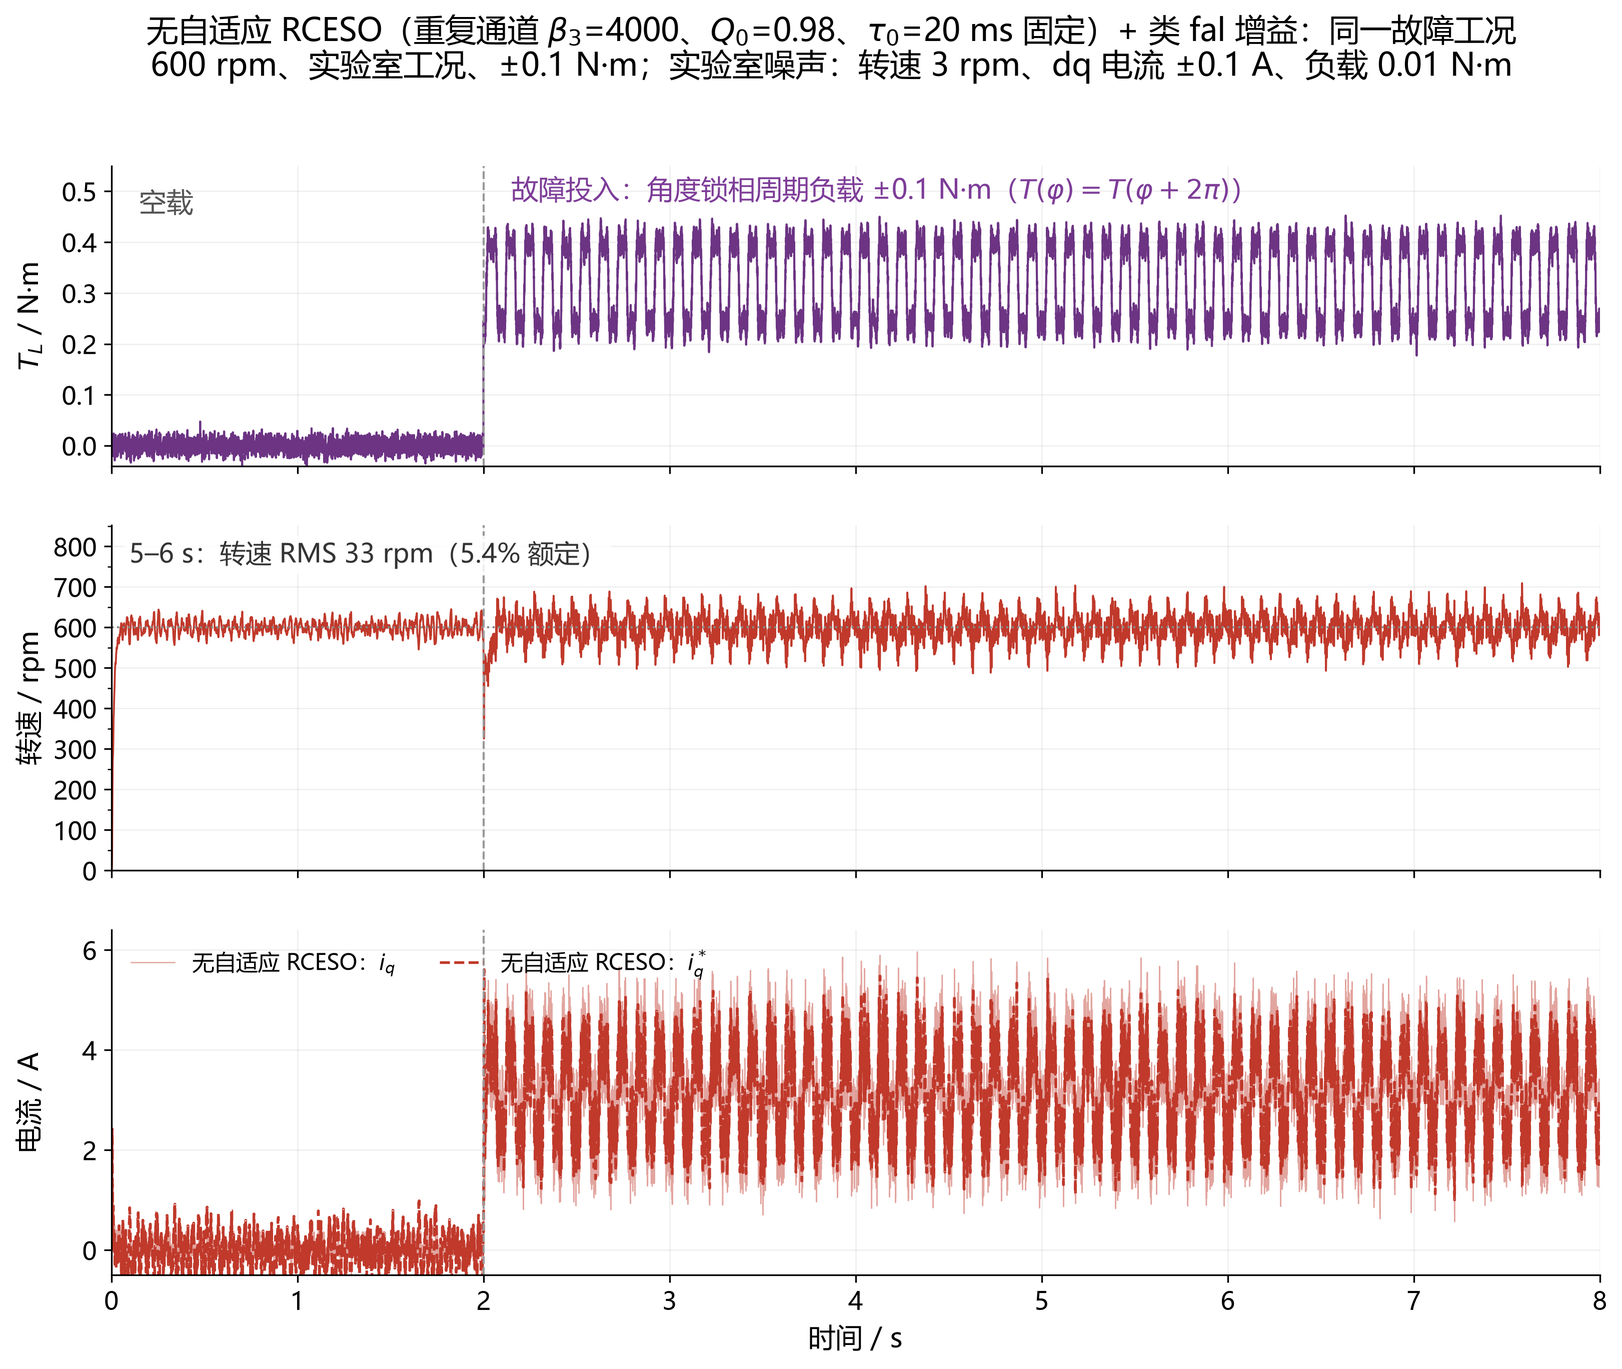
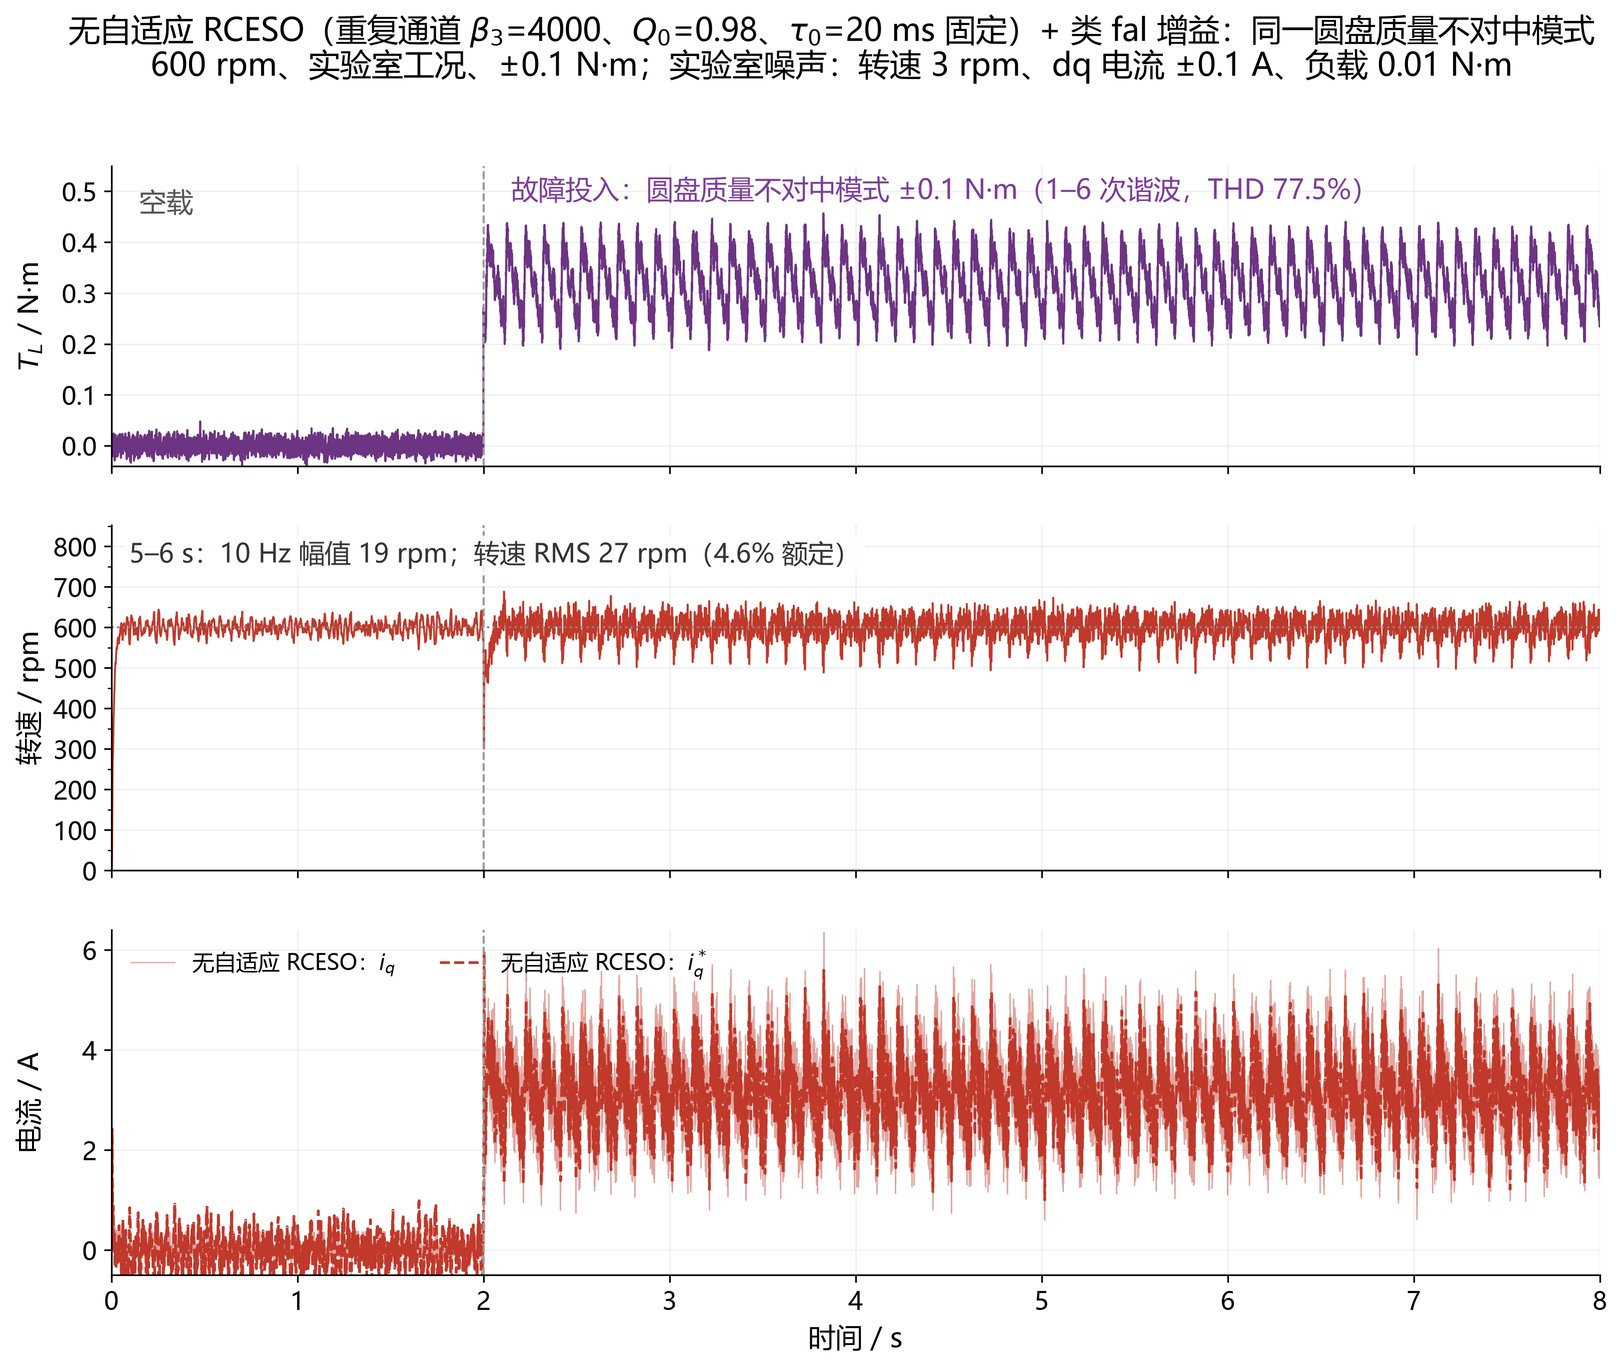
feat(fault): 圆盘质量不对中模式 1-6 次谐波型线与图1重跑

diff --git a/tl_profile.py b/tl_profile.py
@@ -1,0 +1,105 @@
+# -*- coding: utf-8 -*-
+"""角度锁相周期负载 T(phi) —— 圆盘质量不对中模式。
+
+物理口径
+--------
+本模式定名为「圆盘质量不对中模式」。圆盘质量不对中的转矩主特征是
+转频 1 次分量；2--6 次分量用于表示盘面偏摆、间隙、非线性刚度等引起
+的谐波调制。本模式保留 1--6 次，基波为主；按用户给定谐波比，
+THD（2--6 次相对基波）为 77.46%，已超过上一版 30% 约束。
+
+    T(phi) = T(phi + 2*pi),  dphi/dt = omega
+    T_L    = T0 + A * disc_unbalance_profile(phi)
+
+disc_unbalance_profile 返回按峰值归一化的表（max|T| = 1），因此
+tl_ang_amp=A 是峰值转矩（N·m），不是基波幅值；基波幅值约为
+A / 1.664 = 0.601A。实现入口见 pmsm_inv_sim.sim_inv 的 tl_ang /
+tl_ang_amp / tl_ang_start 三个 cfg 字段。
+
+当前系数（a1..a6）与 THD:
+    a = (1.00, 0.55, 0.10, 0.45, 0.25, 0.15)
+    THD = sqrt(sum_{n=2}^6 a_n^2) / a_1 = 77.46%
+    （上一版 30% 约束不再满足；若需 30%，把 2--6 次整体乘 0.3873）
+"""
+import math
+
+import numpy as np
+
+# 模式名（写入元数据/文档时使用这一字符串）
+MODE_NAME = "圆盘质量不对中模式"
+MODE_ID = "disc_mass_misalignment"
+
+# a_1 ... a_6, relative to the fundamental
+HARMONICS = (1.00, 0.55, 0.10, 0.45, 0.25, 0.15)
+THD_LIMIT = 0.30          # 上一版约束，仅保留作对照；当前型线不强制
+NPROF = 4096
+
+
+def thd(harmonics=HARMONICS):
+    """Return THD = sqrt(sum_{n>=2} a_n^2) / a_1."""
+    a = np.asarray(harmonics, dtype=float)
+    if a.ndim != 1 or a.size < 2:
+        raise ValueError("harmonics must be a 1-D sequence with at least 2 entries")
+    if not np.all(np.isfinite(a)) or a[0] <= 0.0:
+        raise ValueError("harmonics must be finite and a_1 must be positive")
+    if np.any(a < 0.0):
+        raise ValueError("harmonic amplitudes must be non-negative")
+    return float(np.sqrt(np.sum(a[1:] ** 2)) / a[0])
+
+
+def _raw_profile(phi, harmonics, phases=None):
+    phi = np.asarray(phi, dtype=float)
+    a = np.asarray(harmonics, dtype=float)
+    if phases is not None:
+        ph = np.asarray(phases, dtype=float)
+        if ph.shape != a.shape:
+            raise ValueError("phases must have the same length as harmonics")
+    else:
+        ph = np.zeros_like(a)
+    f = np.zeros_like(phi)
+    for n, (amp, phase) in enumerate(zip(a, ph), start=1):
+        f += amp * np.sin(n * phi + phase)
+    return f
+
+
+def disc_unbalance_profile(n=NPROF, harmonics=HARMONICS, phases=None,
+                           normalize=True):
+    """Return the 圆盘质量不对中模式 torque table over [0, 2*pi).
+
+    Parameters
+    ----------
+    n : int
+        Number of samples. The table is indexed by mechanical angle modulo 2*pi.
+    harmonics : sequence of float
+        Amplitudes a_1..a_N. Defaults to the 1--6 order disc-unbalance profile.
+    phases : sequence of float, optional
+        Phase of each harmonic in radians. Defaults to zero for all orders.
+    normalize : bool
+        If True (default), divide by max|T| so the table peak is 1.
+    """
+    n = int(n)
+    if n < 8:
+        raise ValueError("n must be >= 8")
+    phi = np.linspace(0.0, 2.0 * math.pi, n, endpoint=False)
+    f = _raw_profile(phi, harmonics, phases)
+    if normalize:
+        peak = float(np.max(np.abs(f)))
+        if not np.isfinite(peak) or peak <= 0.0:
+            raise ValueError("profile has zero or non-finite peak")
+        f = f / peak
+    return f
+
+
+THD = thd(HARMONICS)
+
+
+if __name__ == "__main__":
+    prof = disc_unbalance_profile()
+    spec = np.fft.rfft(prof) / len(prof) * 2.0
+    print("harmonics a1..a6 =", HARMONICS)
+    print("THD = %.2f%% (old limit %.0f%%)" % (100.0 * THD, 100.0 * THD_LIMIT))
+    if THD > THD_LIMIT:
+        print("WARNING: current ratios exceed the old 30% limit")
+    print("peak-normalized table: max|T| = %.6f" % np.max(np.abs(prof)))
+    print("FFT amplitudes 1..8:",
+          " ".join("%.4f" % abs(spec[k]) for k in range(1, 9)))

diff --git a/plot_ppt_fig1.py b/plot_ppt_fig1.py
@@ -48,7 +48,7 @@ ax[0].plot(t[::step], D["TL"][::step], color=C_TL, lw=1.0)
 ax[0].set_ylabel("$T_L$ / N·m")
 ax[0].set_ylim(-0.04, 0.55)
 ax[0].text(0.15, 0.46, "空载", fontsize=13, color="#555")
-ax[0].text(2.15, 0.485, "故障投入：角度锁相周期负载 ±0.1 N·m（$T(\\varphi)=T(\\varphi+2\\pi)$）",
+ax[0].text(2.15, 0.485, "故障投入：圆盘质量不对中模式 ±0.1 N·m（1–6 次谐波，THD 77.5%）",
            fontsize=13, color="#7d3c98")
 ax[0].axvline(2.0, color="#999", ls="--", lw=1.0)
 
@@ -68,11 +68,22 @@ def rms_of(k):
     m = (t >= 5.0) & (t < 6.0)
     return float(np.sqrt(np.mean(e[m] ** 2)))
 
+def amp10(k):
+    e = (D["y_" + k] - 1.0) * N
+    m = (t >= 5.0) & (t < 6.0)
+    tt, yy = t[m], e[m]
+    w = 2.0 * np.pi * 10.0
+    c = 2.0 * np.mean(yy * np.cos(w * tt))
+    s = 2.0 * np.mean(yy * np.sin(w * tt))
+    return float(np.hypot(c, s))
+
 if MODE == "both":
-    txt = ("5–6 s：10 Hz 幅值 82 → 31 rpm；转速 RMS %.0f → %.0f rpm（−%.0f%%）"
-           % (rms_of("eso"), rms_of("rceso"), 100 * (1 - rms_of("rceso") / rms_of("eso"))))
+    txt = ("5–6 s：10 Hz 幅值 %.0f → %.0f rpm；转速 RMS %.0f → %.0f rpm（−%.0f%%）"
+           % (amp10("eso"), amp10("rceso"), rms_of("eso"), rms_of("rceso"),
+              100 * (1 - rms_of("rceso") / rms_of("eso"))))
 else:
-    txt = "5–6 s：转速 RMS %.0f rpm（%.1f%% 额定）" % (rms_of(MODE), 100 * rms_of(MODE) / N)
+    txt = "5–6 s：10 Hz 幅值 %.0f rpm；转速 RMS %.0f rpm（%.1f%% 额定）" % (
+        amp10(MODE), rms_of(MODE), 100 * rms_of(MODE) / N)
 ax[1].text(0.012, 0.955, txt, transform=ax[1].transAxes, fontsize=12.5, color="#333", va="top",
            bbox=dict(facecolor="white", edgecolor="none", alpha=0.85, pad=2.5))
 if MODE == "both":
@@ -95,9 +106,9 @@ else:
 for a in ax:
     a.tick_params(labelsize=12)
 
-title = {"eso": "纯 ESO（无重复通道）+ 类 fal 增益：角度锁相周期负载 ±0.1 N·m",
-         "rceso": "无自适应 RCESO（重复通道 $\\beta_3$=4000、$Q_0$=0.98、$\\tau_0$=20 ms 固定）+ 类 fal 增益：同一故障工况",
-         "both": "同一故障工况：纯 ESO vs 无自适应 RCESO（ESO 增益均为类 fal）"}[MODE]
+title = {"eso": "纯 ESO（无重复通道）+ 类 fal 增益：圆盘质量不对中模式 ±0.1 N·m",
+         "rceso": "无自适应 RCESO（重复通道 $\\beta_3$=4000、$Q_0$=0.98、$\\tau_0$=20 ms 固定）+ 类 fal 增益：同一圆盘质量不对中模式",
+         "both": "同一圆盘质量不对中模式：纯 ESO vs 无自适应 RCESO（ESO 增益均为类 fal）"}[MODE]
 fig.suptitle(title + "\n" + "600 rpm、实验室工况、±0.1 N·m；实验室噪声：转速 3 rpm、dq 电流 ±0.1 A、负载 0.01 N·m",
              fontsize=15, y=0.985)
 fig.align_ylabels(ax)

diff --git a/run_ppt_fig1.py b/run_ppt_fig1.py
@@ -5,7 +5,8 @@
     额定 600 rpm（10 Hz 机械转频），实验室噪声 3 rpm / 0.1 A / 0.01 N·m
     0–2 s   空载
     2–8 s   加载 0.50 额定（0.3185 N·m）
-    2–8 s   叠加**角度锁相**周期分量：T(φ)=A[sinφ+0.4sin3φ+0.2sin5φ]，T(φ)=T(φ+2π)，dφ/dt=ω，A=0.1 N·m
+    2–8 s   叠加**角度锁相**周期分量：保留 1–6 次谐波、基波为主，THD=77.46%，
+            T(φ)=T(φ+2π)，dφ/dt=ω，峰值 A=0.1 N·m（圆盘质量不对中模式；基波≈0.0601）
 
 两档（ESO 增益均为类 fal 默认档 a=0.75, δ=0.10, λ=10）：
     纯 ESO   : beta3 = 0（重复通道关闭）
@@ -14,24 +15,17 @@
 输出：_ppt_fig1.npz（t / TL / y_eso / y_rceso / iq_* / iqr_*）、_ppt_fig1.json
 """
 import json
-import math
 
 import numpy as np
 
 from pmsm_inv_sim import sim_inv
+from tl_profile import HARMONICS, MODE_ID, MODE_NAME, THD, disc_unbalance_profile
 import noise_cfg as NC
 
 DT, TEND, TL0 = 2e-6, 8.0, 2.0
 N_REF = 600.0
 AMP_ANG = 0.1
 T_RATED = 0.637
-NPROF = 4096
-
-
-def profile_unit():
-    ph = np.linspace(0.0, 2 * math.pi, NPROF, endpoint=False)
-    f = np.sin(ph) + 0.4 * np.sin(3 * ph) + 0.2 * np.sin(5 * ph)
-    return f / np.max(np.abs(f))
 
 
 CASES = [("eso", "纯 ESO", dict(beta3=0.0)),
@@ -46,7 +40,7 @@ def main():
                 sig_n=NC.NOISE_LAB["sig_n_rpm"],
                 sig_T_nm=NC.NOISE_LAB["sig_T_nm"],
                 seed_i=20261018,
-                tl_ang=profile_unit(), tl_ang_amp=AMP_ANG, tl_ang_start=TL0,
+                tl_ang=disc_unbalance_profile(), tl_ang_amp=AMP_ANG, tl_ang_start=TL0,
                 eso_law="fal", eso_a=0.75, eso_delta=0.10, eso_lam=10.0)
     out = {}
     meta = {}
@@ -68,7 +62,9 @@ def main():
                          beta3=kw["beta3"])
         print(key, meta[key], flush=True)
     np.savez("_ppt_fig1.npz", **out)
-    json.dump(dict(n_ref=N_REF, amp_ang=AMP_ANG, fci=500.0, cases=meta),
+    json.dump(dict(mode=MODE_NAME, mode_id=MODE_ID,
+                   harmonics=list(HARMONICS), thd=round(THD, 6),
+                   n_ref=N_REF, amp_ang=AMP_ANG, fci=500.0, cases=meta),
               open("_ppt_fig1.json", "w", encoding="utf-8"), ensure_ascii=False, indent=1)
 
 

diff --git a/_nolo_multi.py b/_nolo_multi.py
@@ -1,24 +1,16 @@
 # -*- coding: utf-8 -*-
 """空载段差异的多噪声种子复核：纯 ESO vs 无自适应 RCESO（同一负载噪声实现，成对比较）"""
-import math
-import os
 from multiprocessing import Pool
 
 import numpy as np
 import noise_cfg as NC
 from pmsm_inv_sim import sim_inv
+from tl_profile import disc_unbalance_profile
 
 DT, TEND, TL0 = 2e-6, 8.0, 2.0
 N_REF = 600.0
 AMP = 0.1
-NPROF = 4096
 SEEDS = [20261017, 20261019, 20261023, 20261027]
-
-
-def profile_unit():
-    ph = np.linspace(0.0, 2 * math.pi, NPROF, endpoint=False)
-    f = np.sin(ph) + 0.4 * np.sin(3 * ph) + 0.2 * np.sin(5 * ph)
-    return f / np.max(np.abs(f))
 
 
 def one(job):
@@ -31,7 +23,7 @@ def one(job):
                sig_n=NC.NOISE_LAB["sig_n_rpm"],
                sig_T_nm=NC.NOISE_LAB["sig_T_nm"],
                seed_i=20261018, seed_T=seedT, seed_n=20261018,
-               tl_ang=profile_unit(), tl_ang_amp=AMP, tl_ang_start=TL0,
+               tl_ang=disc_unbalance_profile(), tl_ang_amp=AMP, tl_ang_start=TL0,
                eso_law="fal", eso_a=0.75, eso_delta=0.10, eso_lam=10.0)
     Y = sim_inv(t, TL, cfg)
     tt = Y["t"]; e = (Y["y"] - 1.0) * N_REF

diff --git a/pptfig/equations.tex b/pptfig/equations.tex
@@ -21,8 +21,14 @@ u=\frac{u_0-z_2-v}{b_0},\quad u_0=k_p(r-y),\quad e_1=y-z_1
 D_m^{\downarrow}=\frac{\max\left(0,\,E_v(t-T)-E_v(t)\right)}{E_v(t-T)+\varepsilon_v},\quad
 E_v(t)=\frac{1}{T}\int_{t-T}^{t}v^2(\tau)\,\mathrm{d}\tau
 
-% (6) 角度锁相周期负载（机械角 φ，dφ/dt=ω）
-T(\varphi)=T(\varphi+2\pi),\quad T_L=T_0+A\left[\sin\varphi+0.4\sin 3\varphi+0.2\sin 5\varphi\right],\quad \frac{\mathrm{d}\varphi}{\mathrm{d}t}=\omega
+% (6) 圆盘质量不对中模式：角度锁相周期负载（机械角 φ，dφ/dt=ω）
+% 1–6 次谐波，按给定顺序（3 次 0.10、4 次 0.45，非单调）；THD=77.46%（超过旧 30% 约束）
+T(\varphi)=T(\varphi+2\pi),\quad
+T_L=T_0+A\,\tilde T(\varphi),\quad
+\tilde T(\varphi)=\frac{\sum_{n=1}^{6}a_n\sin n\varphi}{\max\left|\sum_{n=1}^{6}a_n\sin n\varphi\right|},\quad
+(a_1,\ldots,a_6)=(1,\,0.55,\,0.10,\,0.45,\,0.25,\,0.15),\quad
+\mathrm{THD}=\frac{\sqrt{\sum_{n=2}^{6}a_n^2}}{a_1}=77.46\%,\quad
+\frac{\mathrm{d}\varphi}{\mathrm{d}t}=\omega
 
 % (7) 小信号斜率与等效观测带宽
 G'(0)=\delta^{a-1},\qquad \omega_o^{\mathrm{eff}}=\omega_o\,\delta^{(a-1)/2}

diff --git a/_noise_check.py b/_noise_check.py
@@ -2,14 +2,14 @@
 """单个噪声源的贡献分解（串行，避免 Windows spawn 的顶层 Pool 问题）"""
 import numpy as np
 from pmsm_inv_sim import sim_inv
+from tl_profile import disc_unbalance_profile
 import noise_cfg as NC
-import run_ppt_fig1 as R
 
 print("NOISE_LAB =", NC.NOISE_LAB, flush=True)
 t = np.arange(0.0, 8.0, 2e-6)
 TL = (0.50 * (t >= 2.0)).astype(float) * 0.637
 base = dict(n_ref=600.0, T=0.1, fci=500.0, beta3=0.0, tau0=20e-3, seed_i=20261018,
-            tl_ang=R.profile_unit(), tl_ang_amp=0.1, tl_ang_start=2.0,
+            tl_ang=disc_unbalance_profile(), tl_ang_amp=0.1, tl_ang_start=2.0,
             eso_law="fal", eso_a=0.75, eso_delta=0.10, eso_lam=10.0)
 cases = [("全部实验室噪声", dict(i_noise_peak=0.1, sig_n=3.0, sig_T_nm=0.01)),
          ("无噪声", dict(i_noise_peak=0.0, sig_n=0.0, sig_T_nm=0.0)),

diff --git a/pmsm_inv_sim.py b/pmsm_inv_sim.py
@@ -83,6 +83,8 @@ def sim_inv(t, TL, cfg=None):
     #   -1 = 反相复位（v->-v，缓冲同时取反），用于"反相突变"事件——此时清空是错的动作。
     ff_alpha = float(cfg.get("ff_alpha", 0.0))
     # 2026-10-22：角度锁相周期负载 T(φ)=T(φ+2π)，dφ/dt=ω（φ 为机械角）。
+    #   推荐型线：tl_profile.disc_unbalance_profile()，即「圆盘质量不对中模式」
+    #   （1–6 次谐波，基波为主，THD=77.46%；旧 30% 约束不再满足）。
     #   tl_ang       : 单位幅值的周期表（长度 N，均匀铺满 0..2π），None=关闭
     #   tl_ang_amp   : 该分量的幅值（N·m）
     #   tl_ang_start : 该分量开始作用的时刻（s）

diff --git a/pptfig/NOTES.md b/pptfig/NOTES.md
@@ -11,34 +11,38 @@
 | `ppt_01b_rceso_fault.png` | 无自适应 RCESO（β₃=4000、Q₀=0.98、τ₀=20 ms 固定）单曲线 |
 | `ppt_01c_eso_vs_rceso.png` | 两者合并对照 |
 
-- **一句话**：±0.1 N·m 的角度锁相周期负载下，纯 ESO 打出 **74 rpm RMS（12.4% 额定）**；加上重复通道后降到 **33 rpm RMS（5.4%，−56%）**，10 Hz 幅值 82 → 31 rpm，代价是 iq 峰值 5.20 → **6.17 A**（额定 6.5 A）。
+> **模式名**：圆盘质量不对中模式（1–6 次谐波，基波为主，THD=77.5%）。
+> **注意**：按给定顺序 1.00/0.55/0.10/0.45/0.25/0.15（3 次 0.10、4 次 0.45，非单调），
+> THD=77.46%，超过此前 ≤30% 约束；若 30% 仍是硬约束，需把 2–6 次整体乘 0.3873（见 `tl_profile.md`）。
+
+- **一句话**：圆盘质量不对中模式（±0.1 N·m，1–6 次谐波，THD 77.5%）下，纯 ESO 打出 **59 rpm RMS（9.8% 额定）**；加上重复通道后降到 **27 rpm RMS（4.6%，−53%）**，10 Hz 幅值 51 → 19 rpm，代价是 iq 峰值 5.19 → **5.64 A**（额定 6.5 A）。
 - **复现**：`python run_ppt_fig1.py`（两档一次跑完）→ `python plot_ppt_fig1.py eso|rceso|both`
 
 - **为什么空载段（0–2 s）也改善？**（常被问，先备好答案）
   - 现象：空载 1–2 s 转速 RMS **33.3 → 16.6 rpm（−50%）**；4 个负载噪声种子复核为 **−39% ~ −50%**（30.1–33.7 → 15.4–19.1），不是单次巧合。
-  - 机理：重复通道是**梳状滤波器**，对转频 10 Hz 的整数倍（10/30/50 Hz…）各开一个深度陷波，
+  - 机理：重复通道是**梳状滤波器**，对转频 10 Hz 的整数倍（10/20/…/60 Hz…）各开一个深度陷波，
     低通 $\tau_0$=20 ms 把每个陷波展宽到约 ±8 Hz。实验负载噪声是 200 Hz 带限的，能量大量落在 0–60 Hz，
     于是**落在谐波带内的那部分噪声也被一起压掉**——它分不清"周期扰动"和"噪声"。
   - 证据（空载 1–2 s 频带 RMS）：11.5–60 Hz 由 **39.4 → 17.3**；60–200 Hz 基本不变（7.6 → 7.8）；
     >200 Hz 不变（2.3 → 2.4）——是"谐波梳"而不是"低通"。
   - 注意：单个谐波分量的瞬时幅值可能反而变大（泵浦把噪声"记"进记忆再重放，30/50 Hz 实测 1.7→4.3、0.7→2.1），
     但总 RMS 仍是下降的。讲稿里说"重复通道顺带压掉了落在谐波带内的噪声"即可，不要夸成"降噪"。
-- **图怎么读**：0–2 s 空载；2 s 故障投入（0.50 额定台阶 + `T(φ)=A[sinφ+0.4sin3φ+0.2sin5φ]`，`T(φ)=T(φ+2π)`，`dφ/dt=ω`，A=0.1 N·m）；第三行看 `i_q*` 与 `i_q` 的跟随（实测电流含采样噪声）。
+- **图怎么读**：0–2 s 空载；2 s 故障投入（0.50 额定台阶 + 圆盘质量不对中模式：角度锁相 `T(φ)=A·T̃(φ)`；`T̃` 保留 1–6 次谐波、基波为主，THD=77.5%；`T(φ)=T(φ+2π)`，`dφ/dt=ω`，峰值 A=0.1 N·m）；第三行看 `i_q*` 与 `i_q` 的跟随（实测电流含采样噪声）。
 - **参数**：β₃ = 0（重复通道关）、无律 D、无 F-B；ESO 增益类 fal。
 - **复现**：`python run_ppt_fig1.py` → `python plot_ppt_fig1.py`
-- **数据**：`_ppt_fig1.npz`、`_ppt_fig1.json`（steady_rms 74.13、iq_std 0.899、iq_max 5.28、Max|iq*| 4.61）
+- **数据**：`_ppt_fig1.npz`、`_ppt_fig1.json`（ESO steady_rms 58.61、iq_std 0.680、iq_max 5.19、Max|iq*| 4.59；RCESO steady_rms 27.49、iq_max 5.64）
 - **噪声确实加了（逐源开关的量化，2026-10-23）**：
 
 | 配置 | 空载 1–2 s 转速 RMS | 空载 iq 标准差 | 故障段 5–6 s 转速 RMS |
 | --- | --- | --- | --- |
-| 全部实验室噪声 | **33.33 rpm** | 0.147 A | 74.3 rpm |
-| 无噪声 | 2.10 | 0.095 | 73.4 |
-| 仅电流噪声 ±0.1 A | 2.14 | 0.095 | 73.4 |
-| 仅转速噪声 3 rpm | 3.28 | 0.095 | 74.2 |
-| 仅负载噪声 0.01 N·m | **32.34** | 0.144 | 73.9 |
+| 全部实验室噪声 | **33.33 rpm** | 0.147 A | 58.6 rpm |
+| 无噪声 | 2.10 | 0.095 | 57.9 |
+| 仅电流噪声 ±0.1 A | 2.14 | 0.095 | 57.0 |
+| 仅转速噪声 3 rpm | 3.28 | 0.095 | 58.1 |
+| 仅负载噪声 0.01 N·m | **32.34** | 0.144 | 58.5 |
 
   读法：三个噪声都在；**空载段的抖动主要由负载噪声贡献**（J=1.89e-5 太小、本图 β₃=0 无重复通道，
-  负载噪声只能靠 ESO+PI 带宽硬扛）；**故障段 74 rpm 的脉动与噪声无关**（无噪声 73.4，全部噪声 74.3）。
+  负载噪声只能靠 ESO+PI 带宽硬扛）；**故障段 59 rpm 的脉动与噪声无关**（无噪声 57.9，全部噪声 58.6）。
 
 ## 起步集（论文级原图，可直接用于细节页）
 

diff --git a/tl_profile.md b/tl_profile.md
@@ -1,0 +1,52 @@
+# 角度锁相负载型线
+
+## 圆盘质量不对中模式
+
+- 英文标识：disc_mass_misalignment
+- 代码入口：tl_profile.py
+- 仿真入口：pmsm_inv_sim.sim_inv 的 tl_ang / tl_ang_amp / tl_ang_start
+- 用途：模拟圆盘质量不对中引起的转频（1 次）及其 2–6 次谐波转矩脉动。
+
+### 定义
+
+    T(φ) = T(φ + 2π),   dφ/dt = ω
+    T_L  = T0 + A · T̃(φ)
+
+    T̃(φ) = Σ_{n=1}^{6} a_n sin(nφ) / max|Σ_{n=1}^{6} a_n sin(nφ)|
+
+    (a1, a2, a3, a4, a5, a6) = (1.00, 0.55, 0.10, 0.45, 0.25, 0.15)
+
+    THD = sqrt(a2² + a3² + a4² + a5² + a6²) / a1
+        = 77.46%  （超过上一版 30% 约束）
+
+### 说明
+
+- 1 次转频分量为主；按给定顺序，3 次为 0.10、4 次为 0.45，2–6 次并非逐次递减；7 次及以上为 0。
+- 表按峰值归一化（max|T̃| = 1），因此 tl_ang_amp 是峰值转矩（N·m），
+  不是基波幅值；基波幅值约为 tl_ang_amp / 1.664 = 0.601 × tl_ang_amp。
+- 该模式用于圆盘质量不对中工况；与旧的时间型 1/3/5 次不对中簇不是同一口径，
+  数字不可混引。
+- **约束冲突**：按给定比值 1.00/0.55/0.10/0.45/0.25/0.15，THD=77.46%，
+  不再满足此前“≤30%”的要求。若仍要 ≤30%，保持 1 次为 1.00，
+  把 2–6 次整体乘 0.3873，按同一顺序得到 0.2130 / 0.0387 / 0.1743 / 0.0968 / 0.0581。
+
+### 用法
+
+~~~python
+from tl_profile import disc_unbalance_profile, MODE_NAME
+
+cfg = dict(
+    tl_ang=disc_unbalance_profile(),   # 单位峰值表，长度 4096
+    tl_ang_amp=0.1,                    # 峰值转矩，N·m
+    tl_ang_start=2.0,                  # 投入时刻，s
+)
+~~~
+
+### 自检
+
+~~~bash
+python tl_profile.py
+~~~
+
+输出应为：THD = 77.46%，FFT 只有 1–6 次谐波（7 次及以上接近 0），
+峰值归一化后 max|T| = 1。
